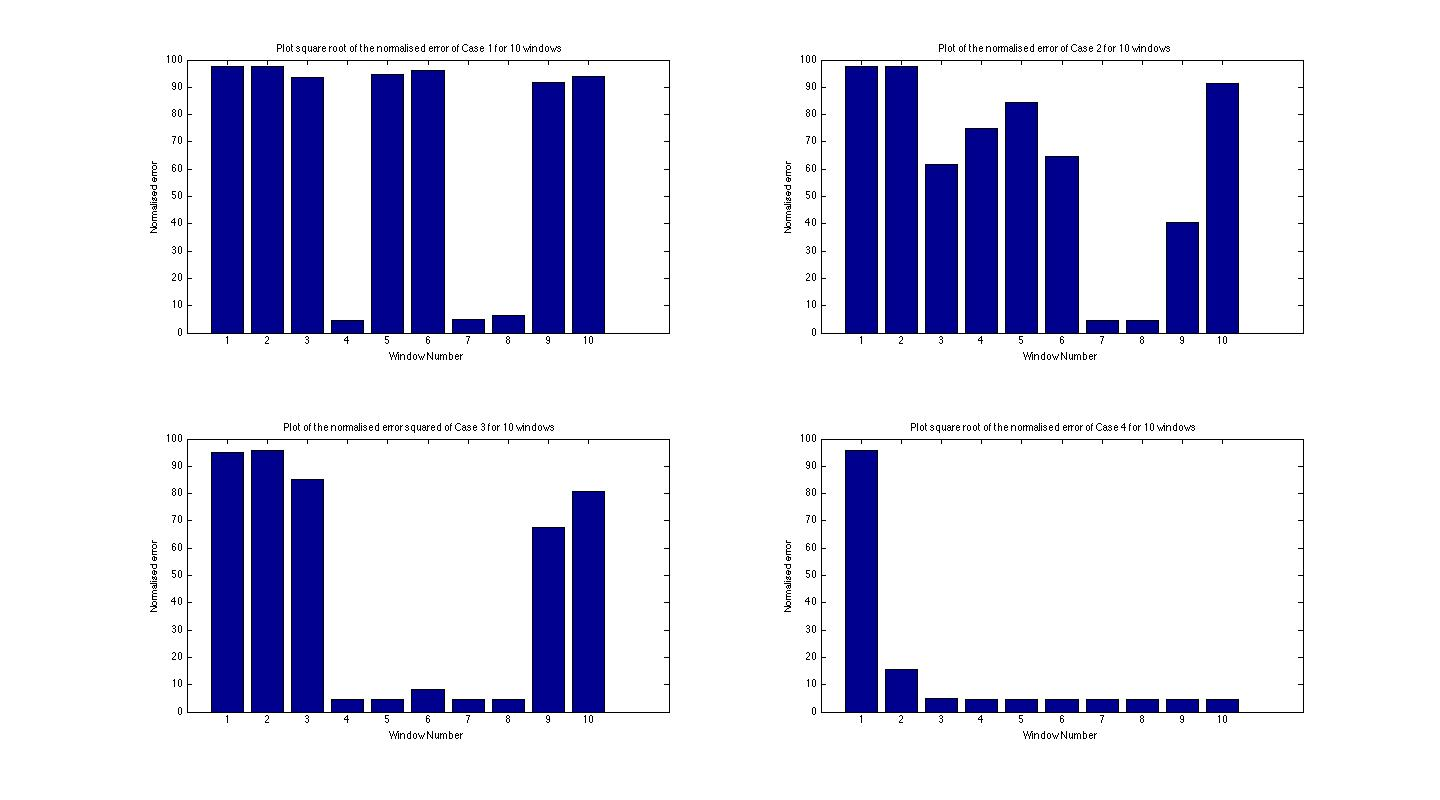
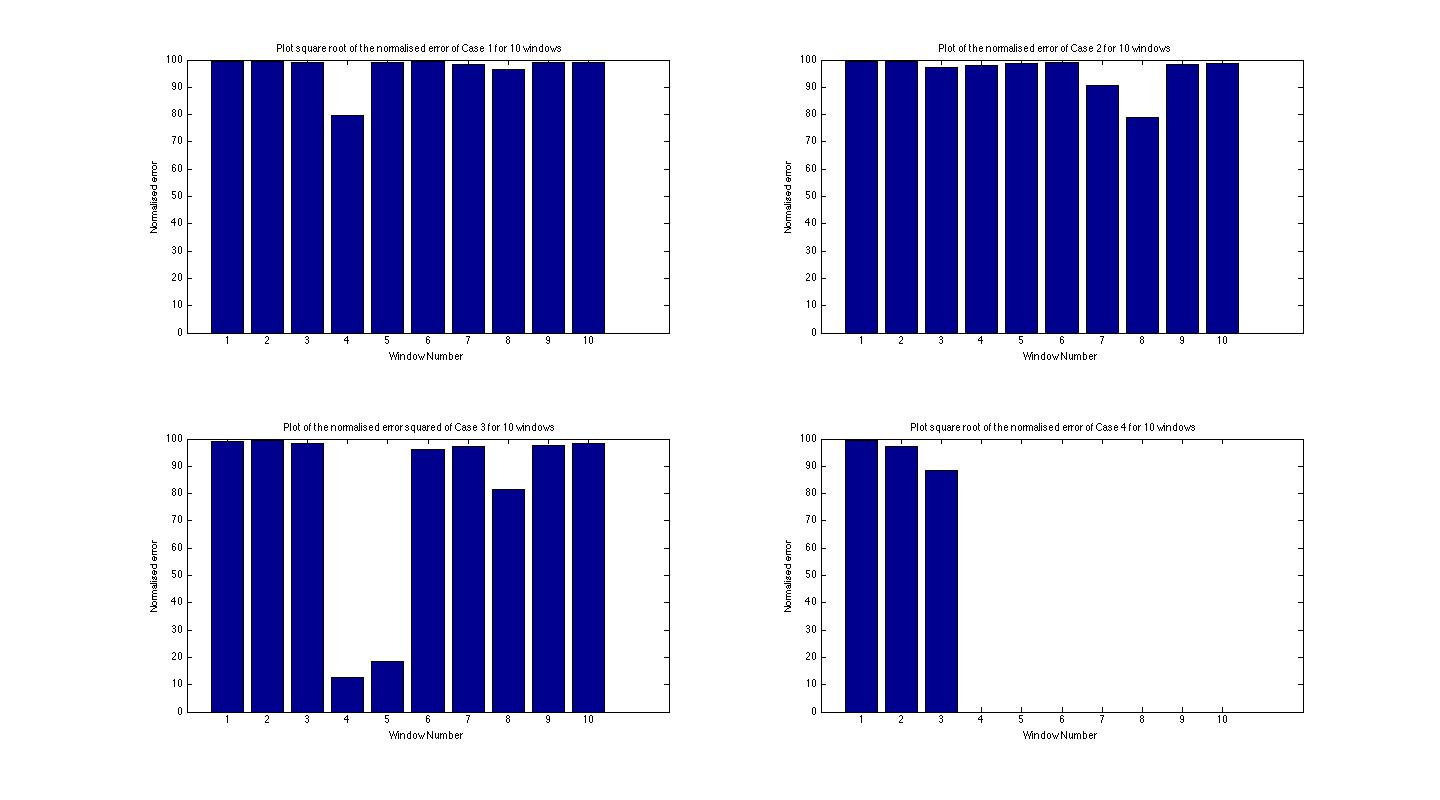
Adds changes to Analysis module and Scoring Function.

diff --git a/Report/KinectReport.tex b/Report/KinectReport.tex
@@ -1,10 +1,15 @@
 \documentclass[a4paper]{article}
-\textwidth = 450pt
-\headsep = 2pt
-\headheight = 1pt
-\oddsidemargin = 1pt
+%\textheight = 630pt
+%\textwidth = 480pt
+%\topmargin = 3pt
+%\voffset = 0pt
+%\headsep = 2pt
+%\headheight = 1pt
+%\oddsidemargin = 1pt
+%\marginparwidth = 1pt
 
 \usepackage{changepage}
+\usepackage[hmargin=2cm, vmargin=2cm]{geometry}
 \usepackage{fancyvrb}
 \usepackage{graphicx}
 \usepackage{amsmath}
@@ -14,6 +19,7 @@
 \usepackage{courier}
 \usepackage{float}
 \restylefloat{table}
+
 
 %%%%%%%%%%%%%%%%%%% Code %%%%%%%%%%%%%%%%%%%%%
 \usepackage{color}
@@ -285,7 +291,7 @@ The fact that the application is to be used for the purpose of dancing means tha
 To test for this, the subject stands in front of the camera, lifting both arms from the sides in the positive y direction up to $90^o$ and then back down. The subject then turns $90^o$ about the y-axis so that the right arm is in front of the camera, but the left arm is covered by the body. The results can be seen in Figure \ref{angle_camera}. As it can be seen here, at frame number 322 there is a peak in the y-coordinate of the right hand and the x-coordinate, but at frame 465 when the subject turns, only the y-coordinate changes. This is perfectly understandable since the the x-coordinate now stays roughly constant whilst the arm is raised. For the left arm however, both the x-coordinate and y-coordinate values are lost when the subject rotates, and thus there is a loss of information due to self occlusion. This may be a problem, however, as long as the teacher's information is also lost, it may not be.  
 \begin{figure}[H]
 \centering
-\includegraphics[scale=0.3]{Angle_To_Camera.jpg}
+\includegraphics[scale=0.2]{Angle_To_Camera.jpg}
 \caption{x and y coordinates plotted against frame number for the right hand and the left hand joints in experiment to see how angle to camera affects results.}
 \label{angle_camera}
 \end{figure}
@@ -301,15 +307,11 @@ In order to discover how many subject can be tracked by a single camera, we incr
 \begin{figure}[H]
 \centering
 \includegraphics[scale=0.3]{multi_people1.jpg}
-\caption{Position of five students with respect to the camera.}
+\includegraphics[scale=0.6]{multi_people2.jpg}
+\caption{Position of five students with respect to the camera (left) and the skeletons fitted to the five people.}
 \label{people_pos}
 \end{figure}
- 
-\begin{figure}[H]
-\centering
-\includegraphics[scale=0.8]{multi_people2.jpg}
-\caption{Five people being tracked in the configuration of Figure \ref{people_pos}.}
-\end{figure}
+
 \noindent
 However, as mentioned before, a subject needs to be 2.5 to 4 metres away from the camera to be fully visible. Added to this, since the application of our software is for dancers, we need to provide an adequate spacing between students to allow for the movements involved in their practice. After splitting up the area for 5 subjects, each one has less than $1m^2$ of free space which is not considered enough for dancers. With 3 people for each camera however it will be able to provide a wide enough radius for each of the students.\\
 
@@ -520,14 +522,14 @@ The initial algorithm is of the form:
 \noindent
 In order to test the algorithm, we record two videos, where the subject performs the same movement in completely different parts of the camera range. Because of that, we are expecting the original data to be of similar shape, but have different absolute values. After running the algorithm on the data, the offset should disappear and the signals should be similar in both their shape as well as in absolute values.
 \\
-\begin{figure}[h]
+\begin{figure}[H]
 \centering
 \includegraphics[scale=0.3]{Non_Translated_R_H_Data.jpg}
 \caption{Right Hand data from two recordings before translation}
 \label{pre_translation_graph}
 \end{figure}
 
-\begin{figure}[h]
+\begin{figure}[H]
 \centering
 \includegraphics[scale=0.3]{R_H_Data_Relative_Torso.jpg}
 \caption{Right Hand data from two recordings after translation}
@@ -541,7 +543,7 @@ Figure \ref{pre_translation_graph} shows the original data from two recordings f
 Figure \ref{post_translation_graph} shows the same signal after running it through the Translation Module. Now, the signal does not contain the initial calibration data any more. Additionally, both the shape and the absolute values of the signal are close to each other, which is the desired outcome.
 
 \clearpage
-\subsection{Scaling Module}
+%\subsection{Scaling Module}
 \subsection{Data Alignment Module}
 \noindent
 The purpose of the Data Alignment Module is to identify the frame shift between two similar dance moves and then align the signals, making it possible for them to be compared. The raw data will always be significantly misaligned, since it is virtually impossible for two people to start performing the dance at the exact same fraction of a second. The problem is visualised in figure \ref{pre_post_alginment} which shows the initial misalignment between two signals as well as the result of passing them through the Data Alignment Module.
@@ -587,7 +589,7 @@ This module had to be changed from its first iteration due to the fact that some
 
 \subsection{Data Analysis Module}
 \noindent
-The main purpose of the Data Analysis Module is to identify parts in the student's performance which deviated from the teacher's. Therefore, some notion of signal similarity needs to be established. We decided that the approach would be to calculate the sum of squared errors  between the teacher's and student's performance, normalised by the sum of squared teacher's data. Since at this point the signals are already aligned, we are not performing any processing with time-lags spanning over the entire length of the signals any more. However, since we are aware of the potential small misalignment, we allow a 21-sample-wide window of error in which we perform the initial data analysis. After establishing the best score for the entire signal, we additionally perform a windowed analysis which considers only parts of the signals at a time.
+The main purpose of the Data Analysis Module is to identify parts in the student's performance which deviated from the teacher's. Therefore, some notion of signal similarity needs to be established. We decided that the approach would be to calculate the sum of squared errors  between the teacher's and student's performance, normalised by some arbitrary value to keep ``reasonable'' errors within a predefined range. Since at this point the signals are already aligned, we are not performing any processing with time-lags spanning over the entire length of the signals any more. However, since we are aware of the potential small misalignment, we allow a 21-sample-wide window of error in which we perform the initial data analysis. After establishing the best score for the entire signal, we additionally perform a windowed analysis which considers only parts of the signals at a time.
 \subsubsection{Algorithm Description}
 \noindent
  The exact steps of the algorithm are:
@@ -597,11 +599,11 @@ The main purpose of the Data Analysis Module is to identify parts in the student
 \setlength{\parsep}{0pt}
 	\item Make signals the same length using truncation.
 	\item Calculate the sum of the error squared for the student's data for all joint data.
-	\item Divide answer by number of samples and by the sum of the mean of every joint data for the teacher. 
+	\item Divide answer by number of samples and by a value $\alpha$, where $\alpha$ is a number that keeps the error in the range of $[0, 1]$ for reasonable errors. 
 	\item Average all data for each joint to get 15 scores, one for each joint.
 	\item Calculate the simple score for 21 different time lags $l \in [-10;10]$ to get the highest score in a time frame of $\pm 0.333s$
  according to the following formula:
-	\item For the time lag with the best, perform the windowed analysis, which consists of splitting the signal into variable number of equal parts, and calculating the previously described score for each part and joint separately in order to give more insightful results.
+	\item For the time lag with the lowest average error per frame, perform the windowed analysis, which consists of splitting the signal into variable number of equal parts, and calculating the previously described score for each part and joint separately in order to give more insightful results. 
 \end{itemize}
 \subsubsection{Testing}
 \begin{itemize}
@@ -624,13 +626,32 @@ Being the most complex and important module in the whole system many problems ha
 Initially, the algorithm used the following formula to give a measure of the error.
 
 \begin{equation}
-Error = \dfrac{\sum\limits_{n=1}^{L}(t(n)-s(n))^2}{\sum\limits_{n=1}^{L}t(n)^2}
+e_{frame} = \frac{1}{L} \dfrac{\sum\limits_{n=1}^{L}(t(n)-s(n))^2}{\sum\limits_{n=1}^{L}t(n)^2}
 \end{equation}
-where $L$ is the number of samples in the shorter signal, $t(n)$ and $s(n)$ are the teacher's and student's signals respectively. In this way, it was thought that the error could be normalised to some extent, however it was later discovered that in the initial code the torso automatically has a higher normalised error than any other body part for the same absolute error. This is due to the fact that the torso is centred about 0, since it is considered the origin, and therefore when diving the sum of the error squared by the sum of the teacher's torso coordinate values squared any small error is hugely magnified in comparison to the same absolute error in the hand coordinate values for instance. This had thought to be rectified however by first subtracting the mean of the signals before comparing them. In this way all the signals are centred about zero and any similar absolute error is treated in a much fairer way with no bias for specific joints. The initial offset was also saved so that, if necessary, the initial starting positions can be compared and a weighting for the score can be given to that also. This also presented problems though since in this way no bias was given to different body parts but bias was given to different frames of the signal. Frames where the values of the teacher were closer to 0 gave larger errors. Also by subtracting the sample mean of the whole signal, signals that may have been close to each other at some parts in the original signals may have strayed from each other after. The final algorithm has now been corrected by purely taking the absolute error squaring it and normalising it to the absolute value of the sum of the means of the joints. This is arbitrary but gives a much more intuative value for the error as it is relative to the absolute values of the coordinates of other joints. The value calculated is then divided by the number of frames to get an average error measure per frame.    
+where $L$ is the number of samples in the shorter signal, $t(n)$ and $s(n)$ are the teacher's and student's signals respectively. In this way, it was thought that the error could be normalised to some extent, however it was later discovered that in the initial code the torso automatically has a higher normalised error than any other body part for the same absolute error. This is due to the fact that the torso is centred about 0, since it is considered the origin, and therefore when diving the sum of the error squared by the sum of the teacher's torso coordinate values squared any small error is hugely magnified in comparison to the same absolute error in the hand coordinate values for instance. This had thought to be rectified however by first subtracting the mean of the signals before comparing them. In this way all the signals are centred about zero and any similar absolute error is treated in a much fairer way with no bias for specific joints. The initial offset was also saved so that, if necessary, the initial starting positions can be compared and a weighting for the score can be given to that also. This also presented problems though since in this way no bias was given to different body parts but bias was given to different frames of the signal. Frames where the values of the teacher were closer to 0 gave larger errors. Also by subtracting the sample mean of the whole signal, signals that may have been close to each other at some parts in the original signals may have strayed from each other after. The final algorithm has now been corrected by purely taking the absolute error squaring it and normalising it to an arbitrary constant, $\alpha$, which keeps all reasonable errors within the range $[0, 1]$, any error greater than this is effectively given the value 1. The way this has been chosen is by looking at errors in the video that seem to deserve a max error value of 1 and finding an average value of $\alpha$ that can achieve this. The value calculated is then divided by the number of frames to get an average error measure per frame. The new equation is given by Equation \eqref{error_eq}.
+\begin{equation}
+e_{frame} = \dfrac{\sum\limits_{n=1}^{L}(t(n)-s(n))^2}{\alpha L}
+\label{error_eq}
+\end{equation}
 \\\\
 \noindent
 Another problem that persisted is that, if the student performs well for a large portion of the dance but makes a huge error at some point, this information was not conveyed as an average was taken for the score and a single value was returned. This has been fixed however with the return of another vector of scores for each joint, in which the x, y, and z coordinates of the joint are each given a score and an average is taken. Additionally, this has been further improved by windowing the signal and giving a score for each joint and an average score for a specific time window. In this way the student can now know at what time period they have made an error and what body part has to improve. An example of such a case can be seen in Figure \ref{error_left_shoulder}. In this scenario the student performs two errors which are reflected in the score of windows 4, 7 and 8 (see Figure \ref{error_score}). The window size (time period) can be determined by the teacher according to how high a resolution is necessary for the dance.
 \\\\
+\noindent
+Added to this, there have been small issues that have been apparent by the fact that the student may perform very similar movements to the teacher, but slightly out of synchronisation. This can be thought of as a slight jitter between the two signals. To illustrate this, a toy example can be seen in Figure \ref{jitter} of two signals. Let the window size be 5 frames and the signal length be 15 frames as shown. Clearly, the optimum alignment based on our specification is the alignment shown in the figure, however there clearly is a misalignment between the first ``dance move'' (this first window). It can be seen that having the first window as is would mean that the absolute error would be 3, whereas with a shift of just one frame the absolute error becomes 0. We have decided that this should be taken into consideration when giving a score to the student. As in a student should not get such a high error when within a certain shift the error would be vastly reduced. The student should however be penalised for the fact that they have not been perfectly on time. The way that we have taken this into consideration is by assigning to a window the minimum error of the following function:
+\begin{equation}
+min\left[p(s) \times e_{window}\right]
+\end{equation}
+where $e_window$ is the absolute error of the window and $p(s)$ is the penalisation function which takes as an argument $s$ the amount of lag between the two signals (higher absolute lags giving a higher value with 0 taking a value 1). It should be noted that in this scenario there would be no penalisation due to the fact that the error becomes zero after alignment, but this is almost impossible in practice. 
+
+
+\begin{figure}[H]
+\centering
+\includegraphics[scale=0.2]{Jitter_Example.jpg}
+\caption{Example showing signal jitter.}
+\label{jitter}
+\end{figure}
+
 \noindent
 Another issue is the fact that though the error may be considered a plausible measure for the correctness of a dance to an engineer or a scientist, this may not be the case for an artist such as the dance teacher. Added to this, the relationship may not be linear and so some care must be taken when finding a function to translate this into a score for the regular individual.
 
@@ -643,24 +664,27 @@ Another issue is the fact that though the error may be considered a plausible me
 
 \subsubsection{Results}
 \noindent
-The graphs in Figure \ref{error_score} show the results of test cases 1 to 4. As it is clear, the more closely the student represents the dance, the lower the error (top left) and the higher the score (top right). This is both in the average score case, and in the time framed case. In Case 1, though the student tries to replicate the dance the same, it can clearly be seen in the windowed results that this is not the case and once the window is identified, the joint(s) which made the error can also be identified. In this case it appears to be the x-coordinate of the left shoulder as can be seen in Figure \ref{error_left_shoulder}. Whether or not this should be penalised so much since the overall movement is quite similar, is not discussed here as this is more of a subjective issue. It is also clear that in the Case 2 and Case 3 scenario only some of the windows are given a low score, whereas in the rest of them the error is comparable to that of Case 1. This follows the video data as the student makes two errors with the arms within the periods of time that are represented by the windows. Finally, Case 4 shows a low score for almost all of the window frames as predicted. 
+The graphs in Figure \ref{error_score} show the results of test cases 1 to 4. As it is clear, the more closely the student represents the dance, the lower the error (top left) and the higher the score (top right). This is both in the average score case, and in the time framed case. In Case 1, though the student tries to replicate the dance the same, it can clearly be seen in the windowed results that this is not the case and once the window is identified, the joint(s) which made the error can also be identified. In this case it appears to be the x-coordinate of the left shoulder as can be seen in Figure \ref{error_left_shoulder}. Whether or not this should be penalised so much since the overall movement is quite similar, is not discussed here as this is more of a subjective issue. It is also clear that in the Case 2 and Case 3 scenario only some of the windows are given a low score, whereas in the rest of them the error is comparable to that of Case 1. This follows the video data as the student makes two errors with the arms within the periods of time that are represented by the windows. Finally, Case 4 shows a low score for almost all of the window frames as predicted, only having a high score for the first 3 windows due to the fact that no motion is taking place for both the student and the teacher. 
 
 \subsubsection{Score Function}
 \noindent
-These results show that there is a great need for user friendly feedback of the results. One thing to note is that firstly, the results are given in an unintuitive scale for the regular daily user. Added to this is the fact that the results are not bounded in any way. Ideally, we would like for a good score to get something that appears to be close to 100\% and a bad score to get close to 0\%. To do this, we may use a variation of the sigmoid function that has these properties.
+The results of the error show that there is a great need for user friendly feedback. One thing to note is that firstly, the results are given in an unintuitive scale for the regular daily user. Added to this is the fact that the results are not bounded in any way. Ideally, we would like for a good score to get something that appears to be close to 100\% and a bad score to get close to 0\%. To do this, have iterated through various functions to map errors to a score. The final result can be seen in equation \eqref{score_function}, where $\epsilon$ is the error and $a$, $b$, and $c$ are constants chosen to give a maximum score of 100 and a minimum of 0.
+
+% score = -2.^(6.652410119*(0.3*error_score+0.8))+140;
+ 
 \begin{equation}
-S(\epsilon) = 100\left[\underbrace{\frac{1}{1+e^{\left(a\epsilon-b\right)}}}_{SigmoidFunction} + \underbrace{\left(1 - \frac{1}{1 + e^{-b}}\right)}_{Offset}\right]
+S(\epsilon) = \min\left[ -2^{a\epsilon + b}+c, 0 \right]
 \end{equation}
 
-	where the $Offset$ is added so that the scoring function $S$ is bounded in the range [0,100].
-\\\\
 \noindent
-By passing the estimated error $\epsilon$ through the modified sigmoid function $S$, we obtain a score in the range of $[0,100]$ which complies with most conventional scoring schemes and thus is more intuitive. Moreover, to retain a smooth transition along the range [20,80], we select the scaling and shifting factors, $a$ and $b$ respectively, in accordance to our tests' results. The final selected values are 10 and 3 for $a$ and $b$ respectively. The calibrated sigmoid function can be seen below in Figure \ref{score_function}.
+By passing the estimated error $\epsilon$ through the scoring function $S$, we obtain a score in the range of $[0,100]$ which complies with most conventional scoring schemes and thus is more intuitive. The calibrated scoring function can be seen below in Figure \ref{score_function}.
 
 \begin{figure}[H]
 \centering
-\includegraphics[scale=0.3]{Score_Function.jpg}
-\caption{Graph of scoring function.}
+\includegraphics[scale=0.15]{Score_Function.jpg}
+\includegraphics[scale=0.15]{Penalise_Error_Function.jpg}
+
+\caption{Graph of scoring function (left) and penalisation function (right).}
 \label{score_function}
 \end{figure}
 \noindent
@@ -668,8 +692,8 @@ The following figure (Figure \ref{error_score}) illustrates the transformation o
 
 \begin{figure}[H]
 \centering
-\includegraphics[scale=0.2]{Data_Analysis_Average_Score.jpg}
-\includegraphics[scale=0.2]{Data_Analysis_Window_Score.jpg}
+\includegraphics[scale=0.15]{Data_Analysis_Average_Score.jpg}
+\includegraphics[scale=0.15]{Data_Analysis_Window_Score.jpg}
 
 \caption{Overall error of the four test cases (top left) and score calculated for these errors (top right). Score calculated for four test cases split into 10 portions of time (bottom four graphs).}
 \label{error_score}
